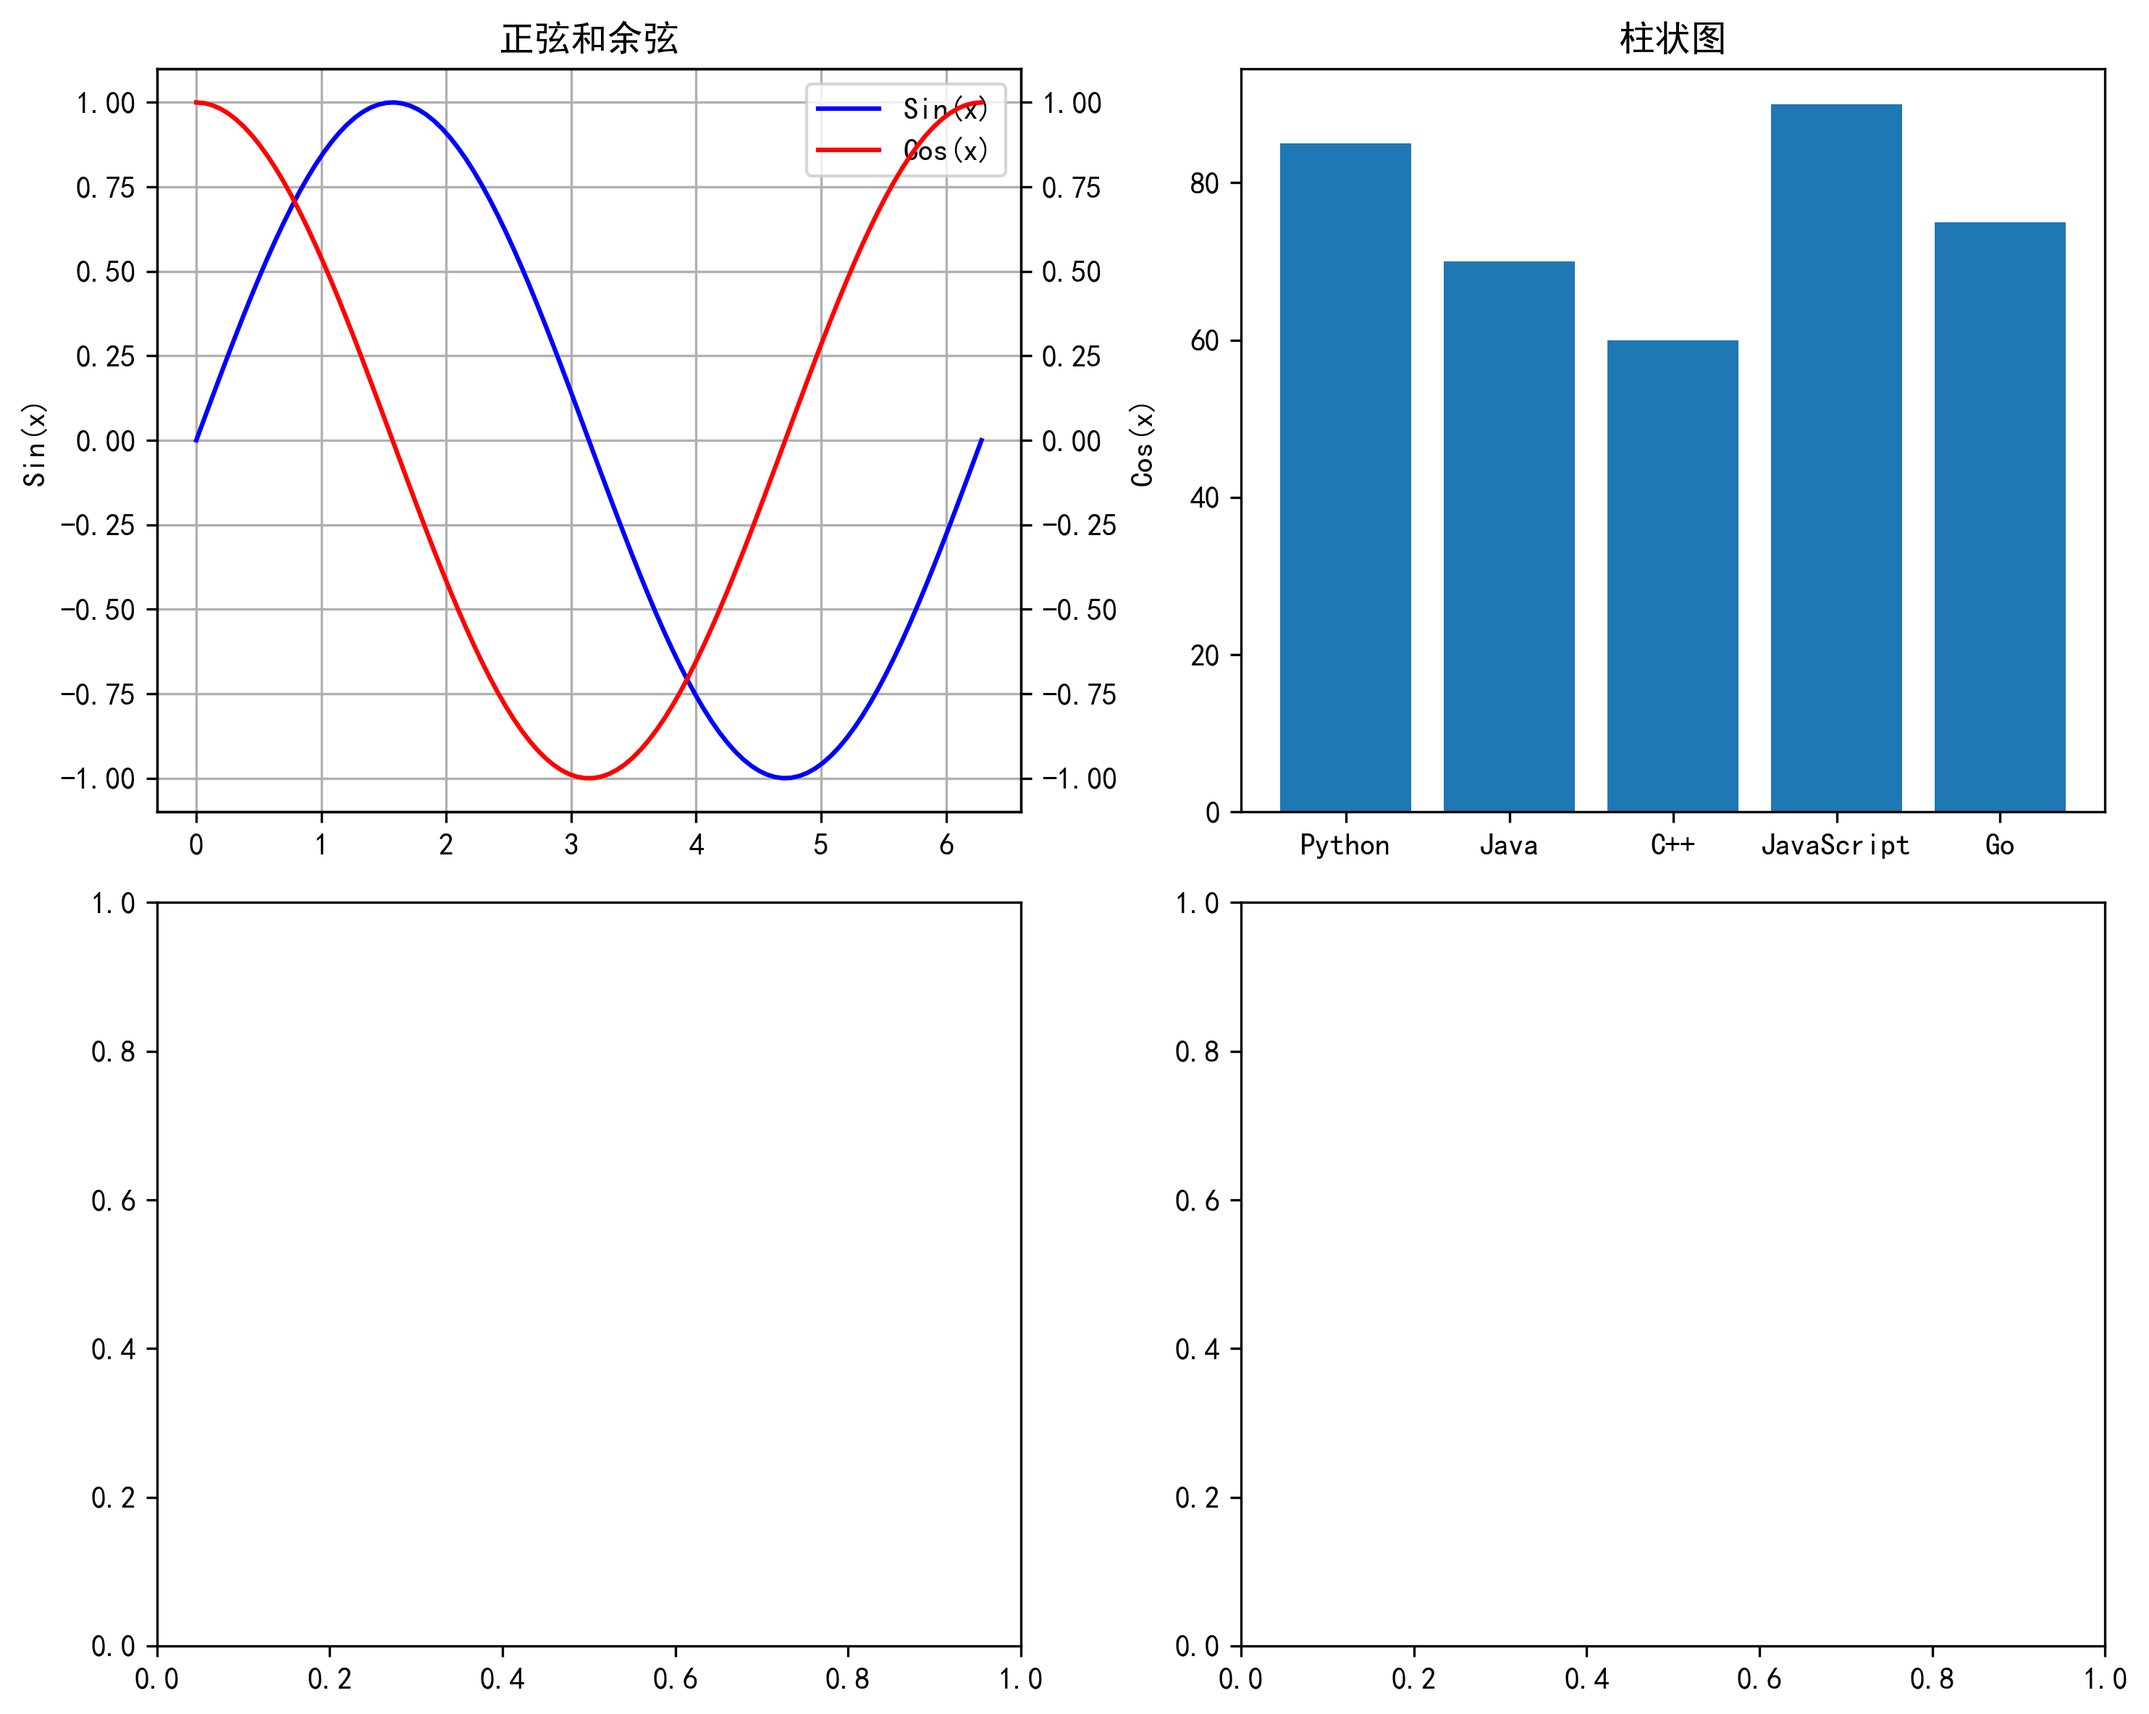
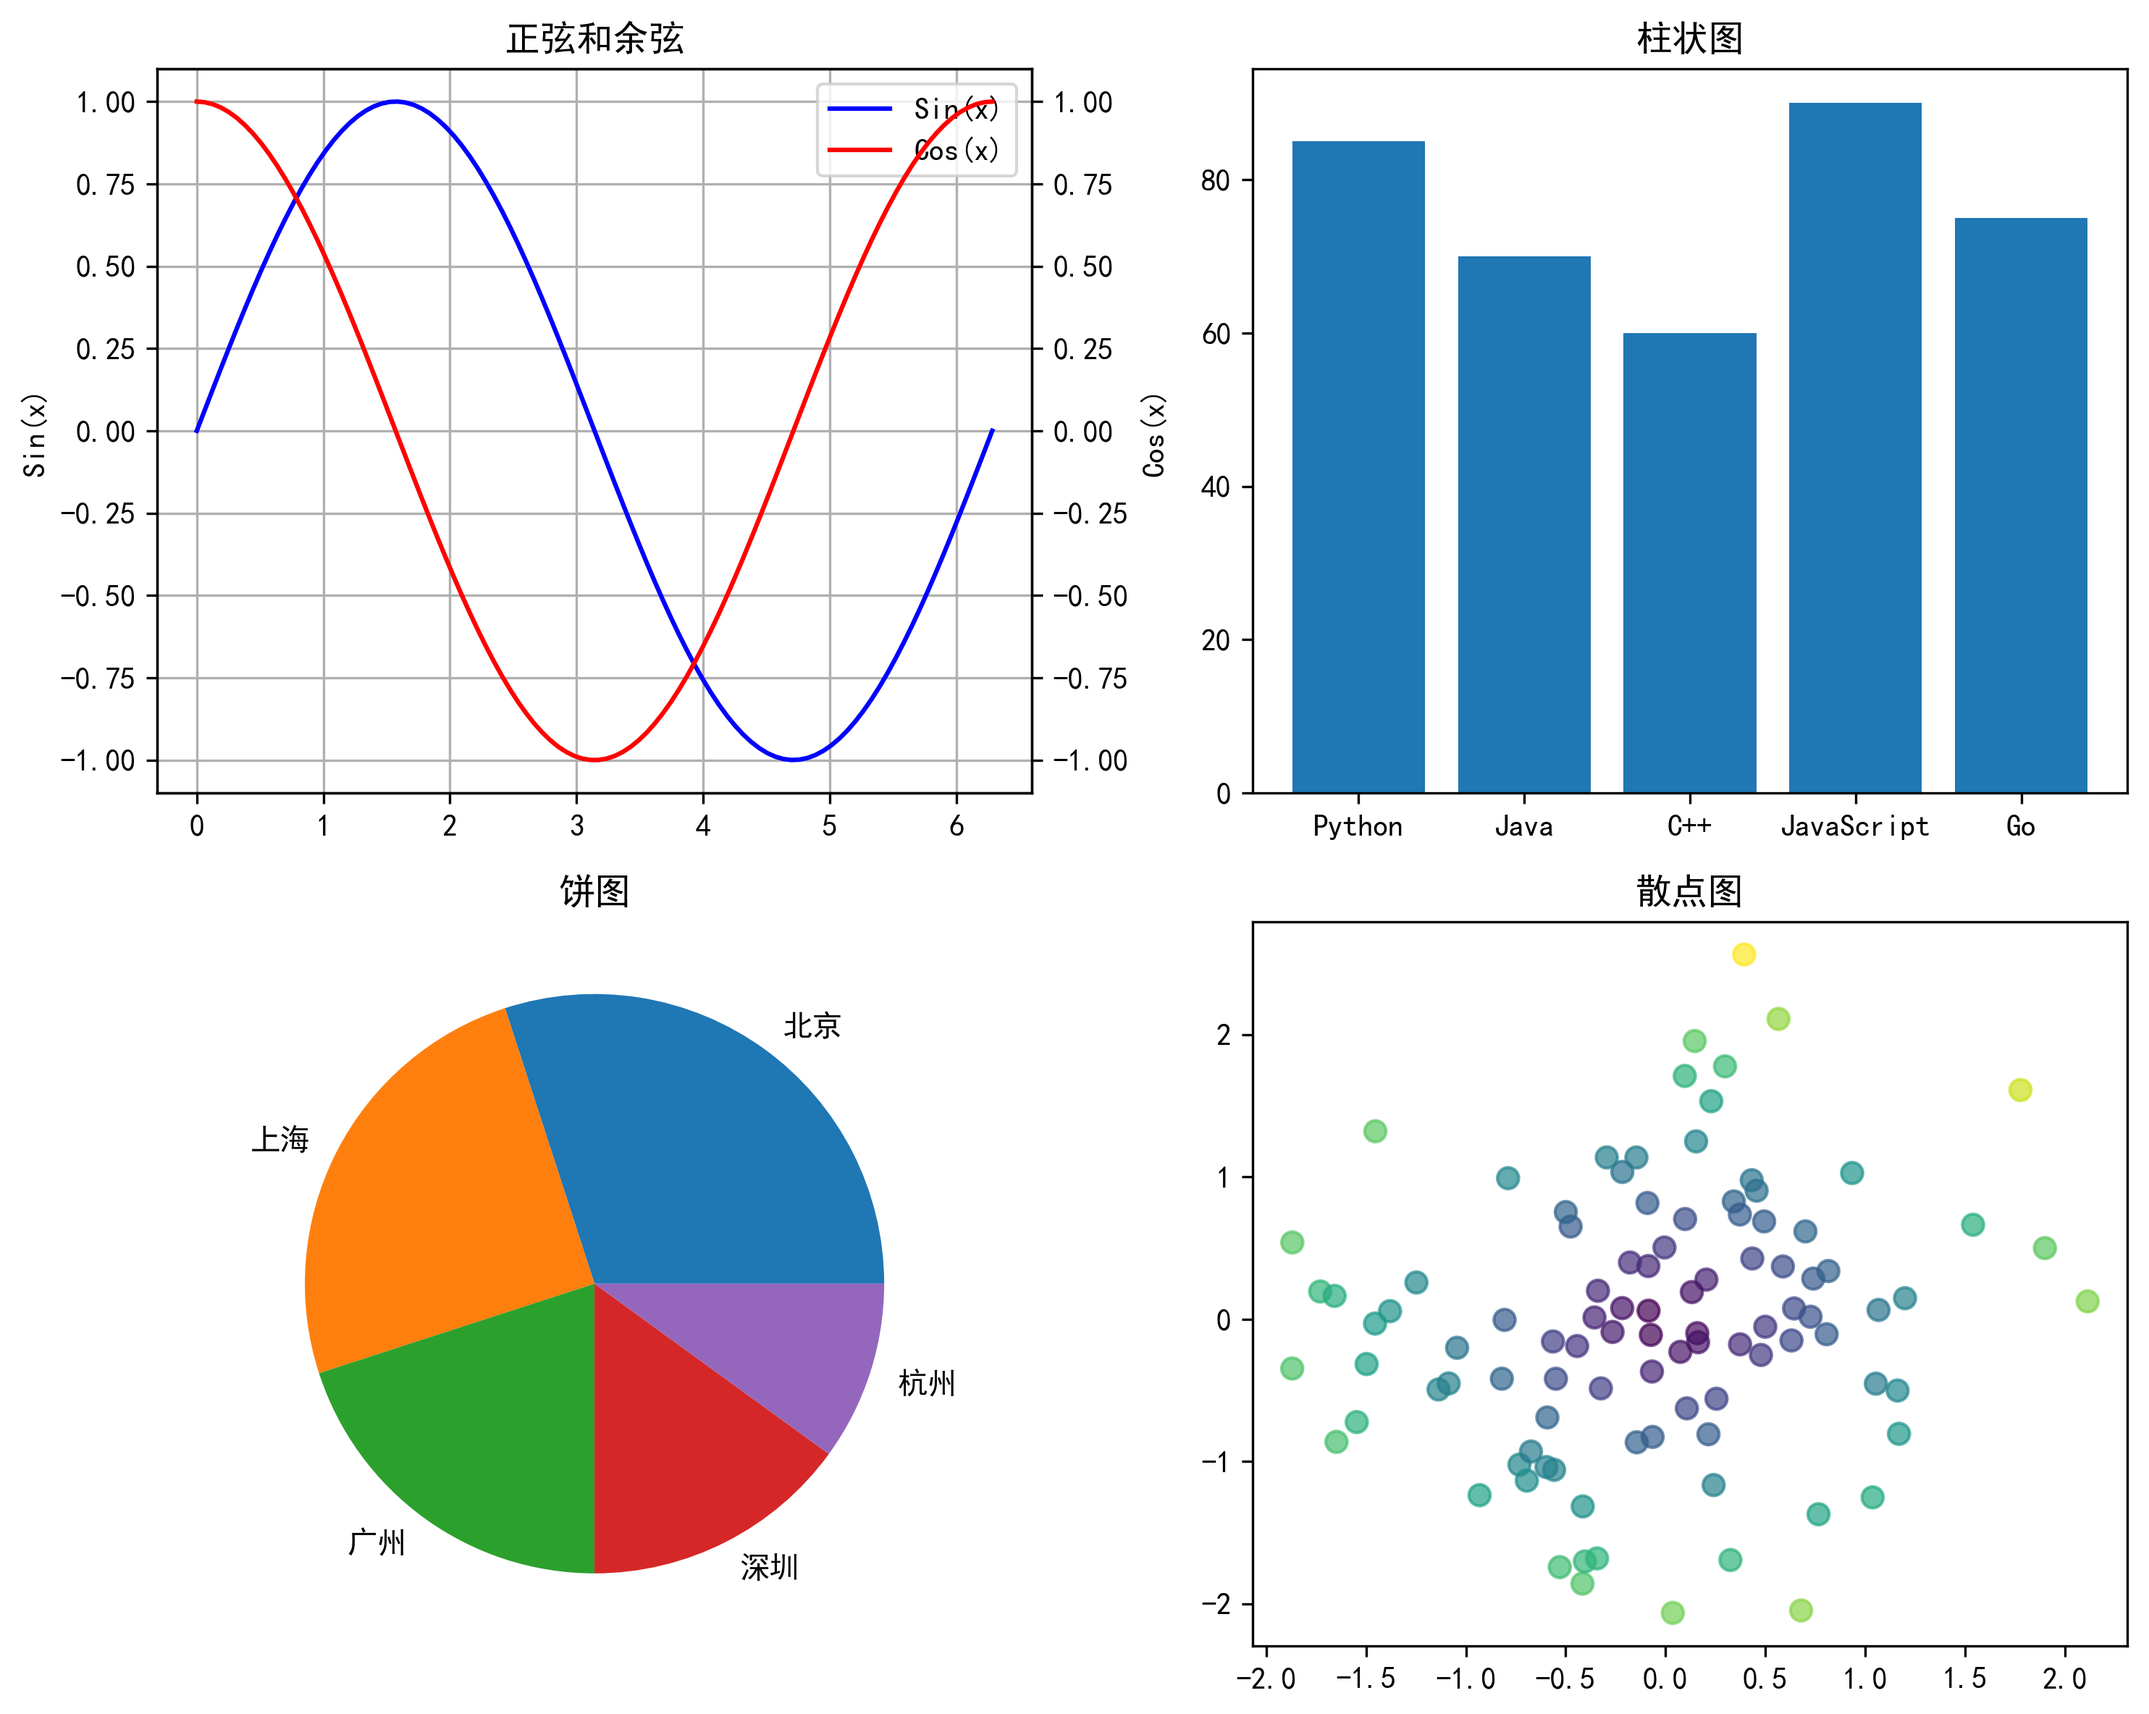
week1作业

diff --git a/work/Week1.py b/work/Week1.py
@@ -122,24 +122,13 @@ print("=" * 50)
 # 请在下方编写你的代码
 # TODO: 完成题目4
 # 1、设置matplotlib支持中文显示（兼容Windows和Mac）
-# （1）指定使用无衬线字体
-matplotlib.rcParams['font.family'] = ['sans-serif']
-# （2）设置一个包含多个中文字体的备选列表
-matplotlib.rcParams['font.sans-serif'] = [
-    'SimHei',    # 中文黑体，在Windows中常见
-    'Microsoft YaHei', # 微软雅黑，在Windows中常见，屏幕显示清晰
-    'Heiti TC',  # 黑体-繁，在macOS中常见
-    'PingFang SC',   # 苹方，在macOS中常见
-    'KaiTi',     # 楷体
-    'FangSong'   # 仿宋
-]
-# （3）解决负号('-')显示为方块的问题
+matplotlib.rcParams['font.sans-serif'] = ['SimHei', 'Microsoft YaHei', 'Heiti TC']
 matplotlib.rcParams['axes.unicode_minus'] = False
 
 # 2、创建2x2的子图布局
 fig, axs = plt.subplots(2, 2, figsize=(10, 8))
 
-# 3、子图1：绘制sin(x)和cos(x)的折线图（x范围0到2π），添加图例和网格
+# 3、子图1：绘制折线图
 # （1）创建数据
 x1 = np.linspace(0, 2 * np.pi, 100)
 # （2）绘制正弦函数
@@ -157,14 +146,22 @@ labels = [line.get_label() for line in lines]
 ax_left.legend(lines, labels, loc='upper right') # 添加图例
 axs[0, 0].set_title('正弦和余弦')
 
-# 4、子图2：绘制一个包含5个类别的柱状图
+# 4、子图2：绘制柱状图
 axs[0, 1].bar(['Python', 'Java', 'C++', 'JavaScript', 'Go'], [85, 70, 60, 90, 75])
 axs[0, 1].set_title('柱状图')
 
-# 5. 子图3：绘制一个饼图，展示5个城市的占比：[30, 25, 20, 15, 10]，标签为['北京', '上海', '广州', '深圳', '杭州']
-# 6. 子图4：绘制一个散点图，x和y都是100个随机数（正态分布），添加颜色映射
+# 5. 子图3：绘制饼图
+axs[1, 0].pie([30, 25, 20, 15, 10], labels=['北京', '上海', '广州', '深圳', '杭州'])
+axs[1, 0].set_title('饼图')
 
-# 7. 使用tight_layout调整布局，并保存图片为'作业_可视化结果.png'
+# 6. 子图4：绘制散点图
+x = np.random.normal(0, 1, 100) # 均值；标准差；数量
+y = np.random.normal(0, 1, 100)
+colors = np.sqrt(x**2 + y**2)
+scatter_plot = axs[1, 1].scatter(x, y, c=colors, cmap='viridis', alpha=0.7, s=50)
+axs[1, 1].set_title('散点图')
+
+# 7. 调整布局和保存
 plt.tight_layout()
 plt.savefig('作业_可视化结果.png', dpi=300, bbox_inches='tight')
 plt.show()
@@ -187,7 +184,35 @@ print("=" * 50)
 
 # 请在下方编写你的代码
 # TODO: 完成题目5
+math_scores = np.random.normal(75, 10, 100) # 均值；标准差；数量
+print(f"学生成绩：\n{math_scores}")
+df_students = pd.DataFrame({
+    'student_id':range(1,101),
+    'math_scores':math_scores
+})
+print(f"DataFrame：\n{df_students}")
+average_score = df_students['math_scores'].mean()
+print(f"平均分：\n{average_score}")
+print(f"最高分：\n{df_students['math_scores'].max()}")
+print(f"最低分：\n{df_students['math_scores'].min()}")
+print(f"及格率：\n{(df_students['math_scores']>=60).mean()*100}%")
 
+# 绘制直方图
+plt.figure(figsize=(12, 6))
+n, bins, patches = plt.hist(df_students['math_scores'], bins=20,
+                           edgecolor='black', alpha=0.7,
+                           color='skyblue', label='成绩分布')
+plt.title('100名学生数学成绩分布直方图', fontsize=14, fontweight='bold')
+plt.xlabel('数学成绩', fontsize=12)
+plt.ylabel('学生人数', fontsize=12)
+plt.axvline(average_score, color='red', linestyle='--', linewidth=2,
+            label=f'平均分: {average_score:.2f}')
+plt.text(average_score + 1, max(n) * 0.9, f'平均分: {average_score:.2f}',
+         color='red', fontsize=10, fontweight='bold')
+plt.legend()
+plt.tight_layout()
+plt.savefig('作业_成绩分布.png', dpi=300, bbox_inches='tight')
+plt.show()
 
 print("\n" + "=" * 50)
 print("作业完成！")
